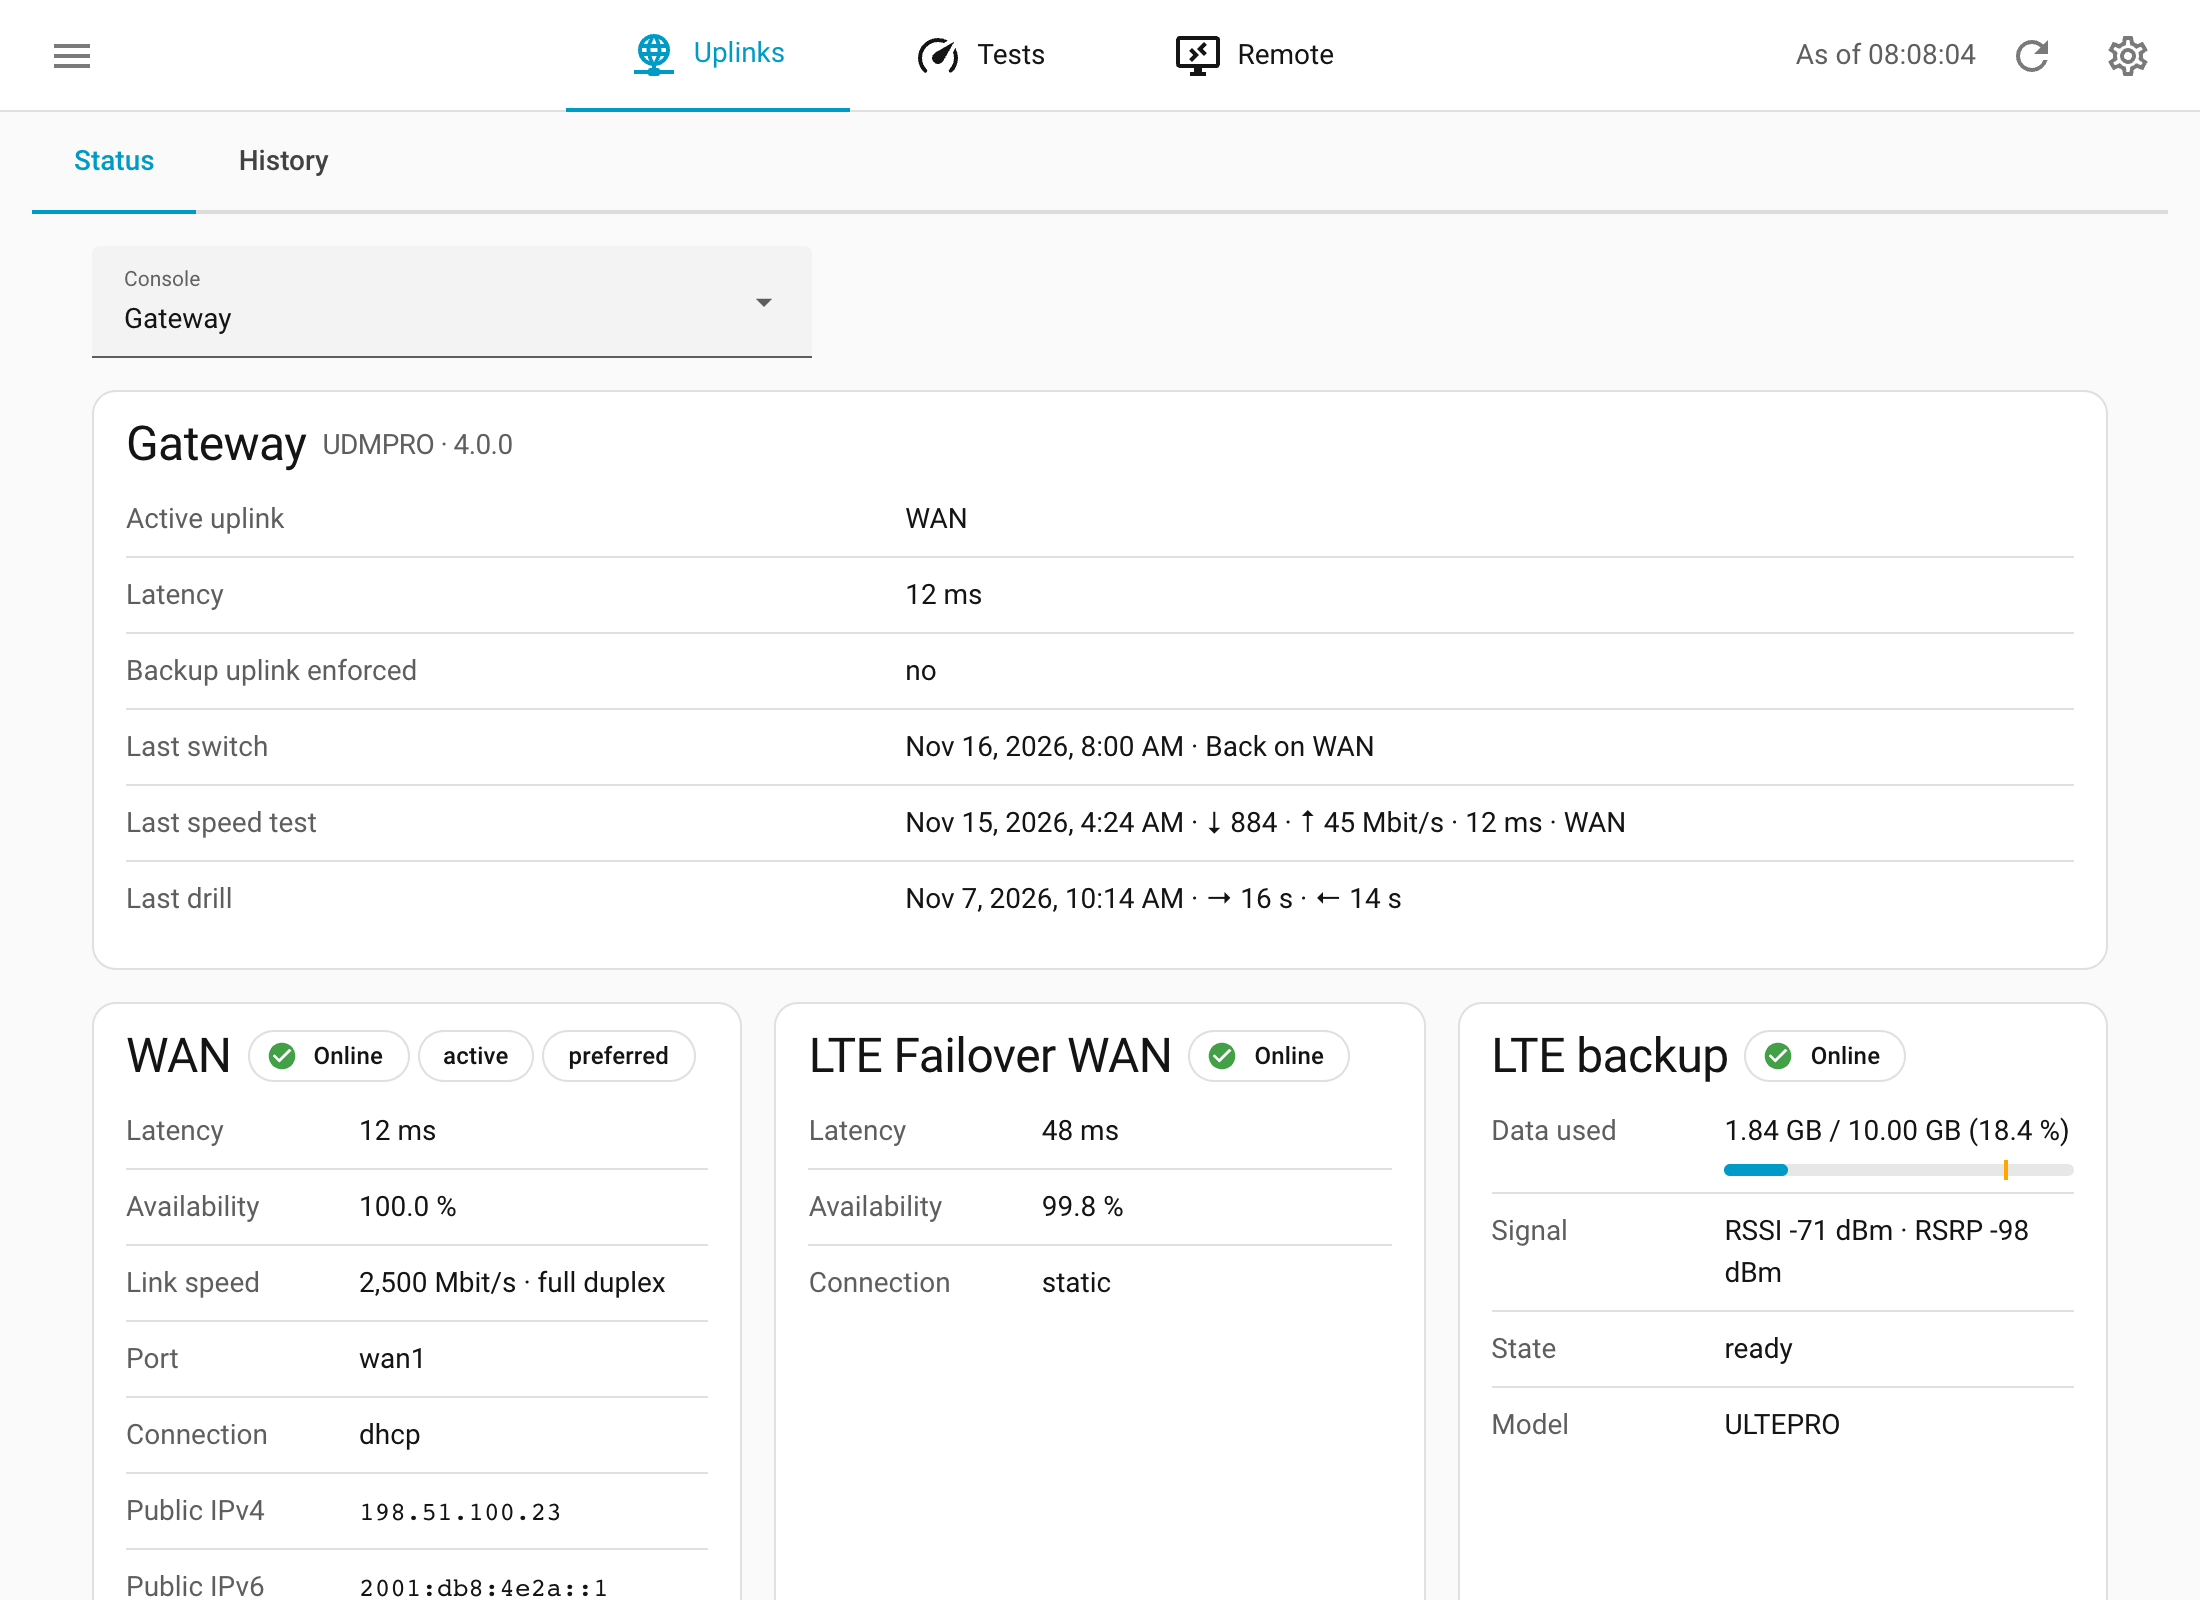
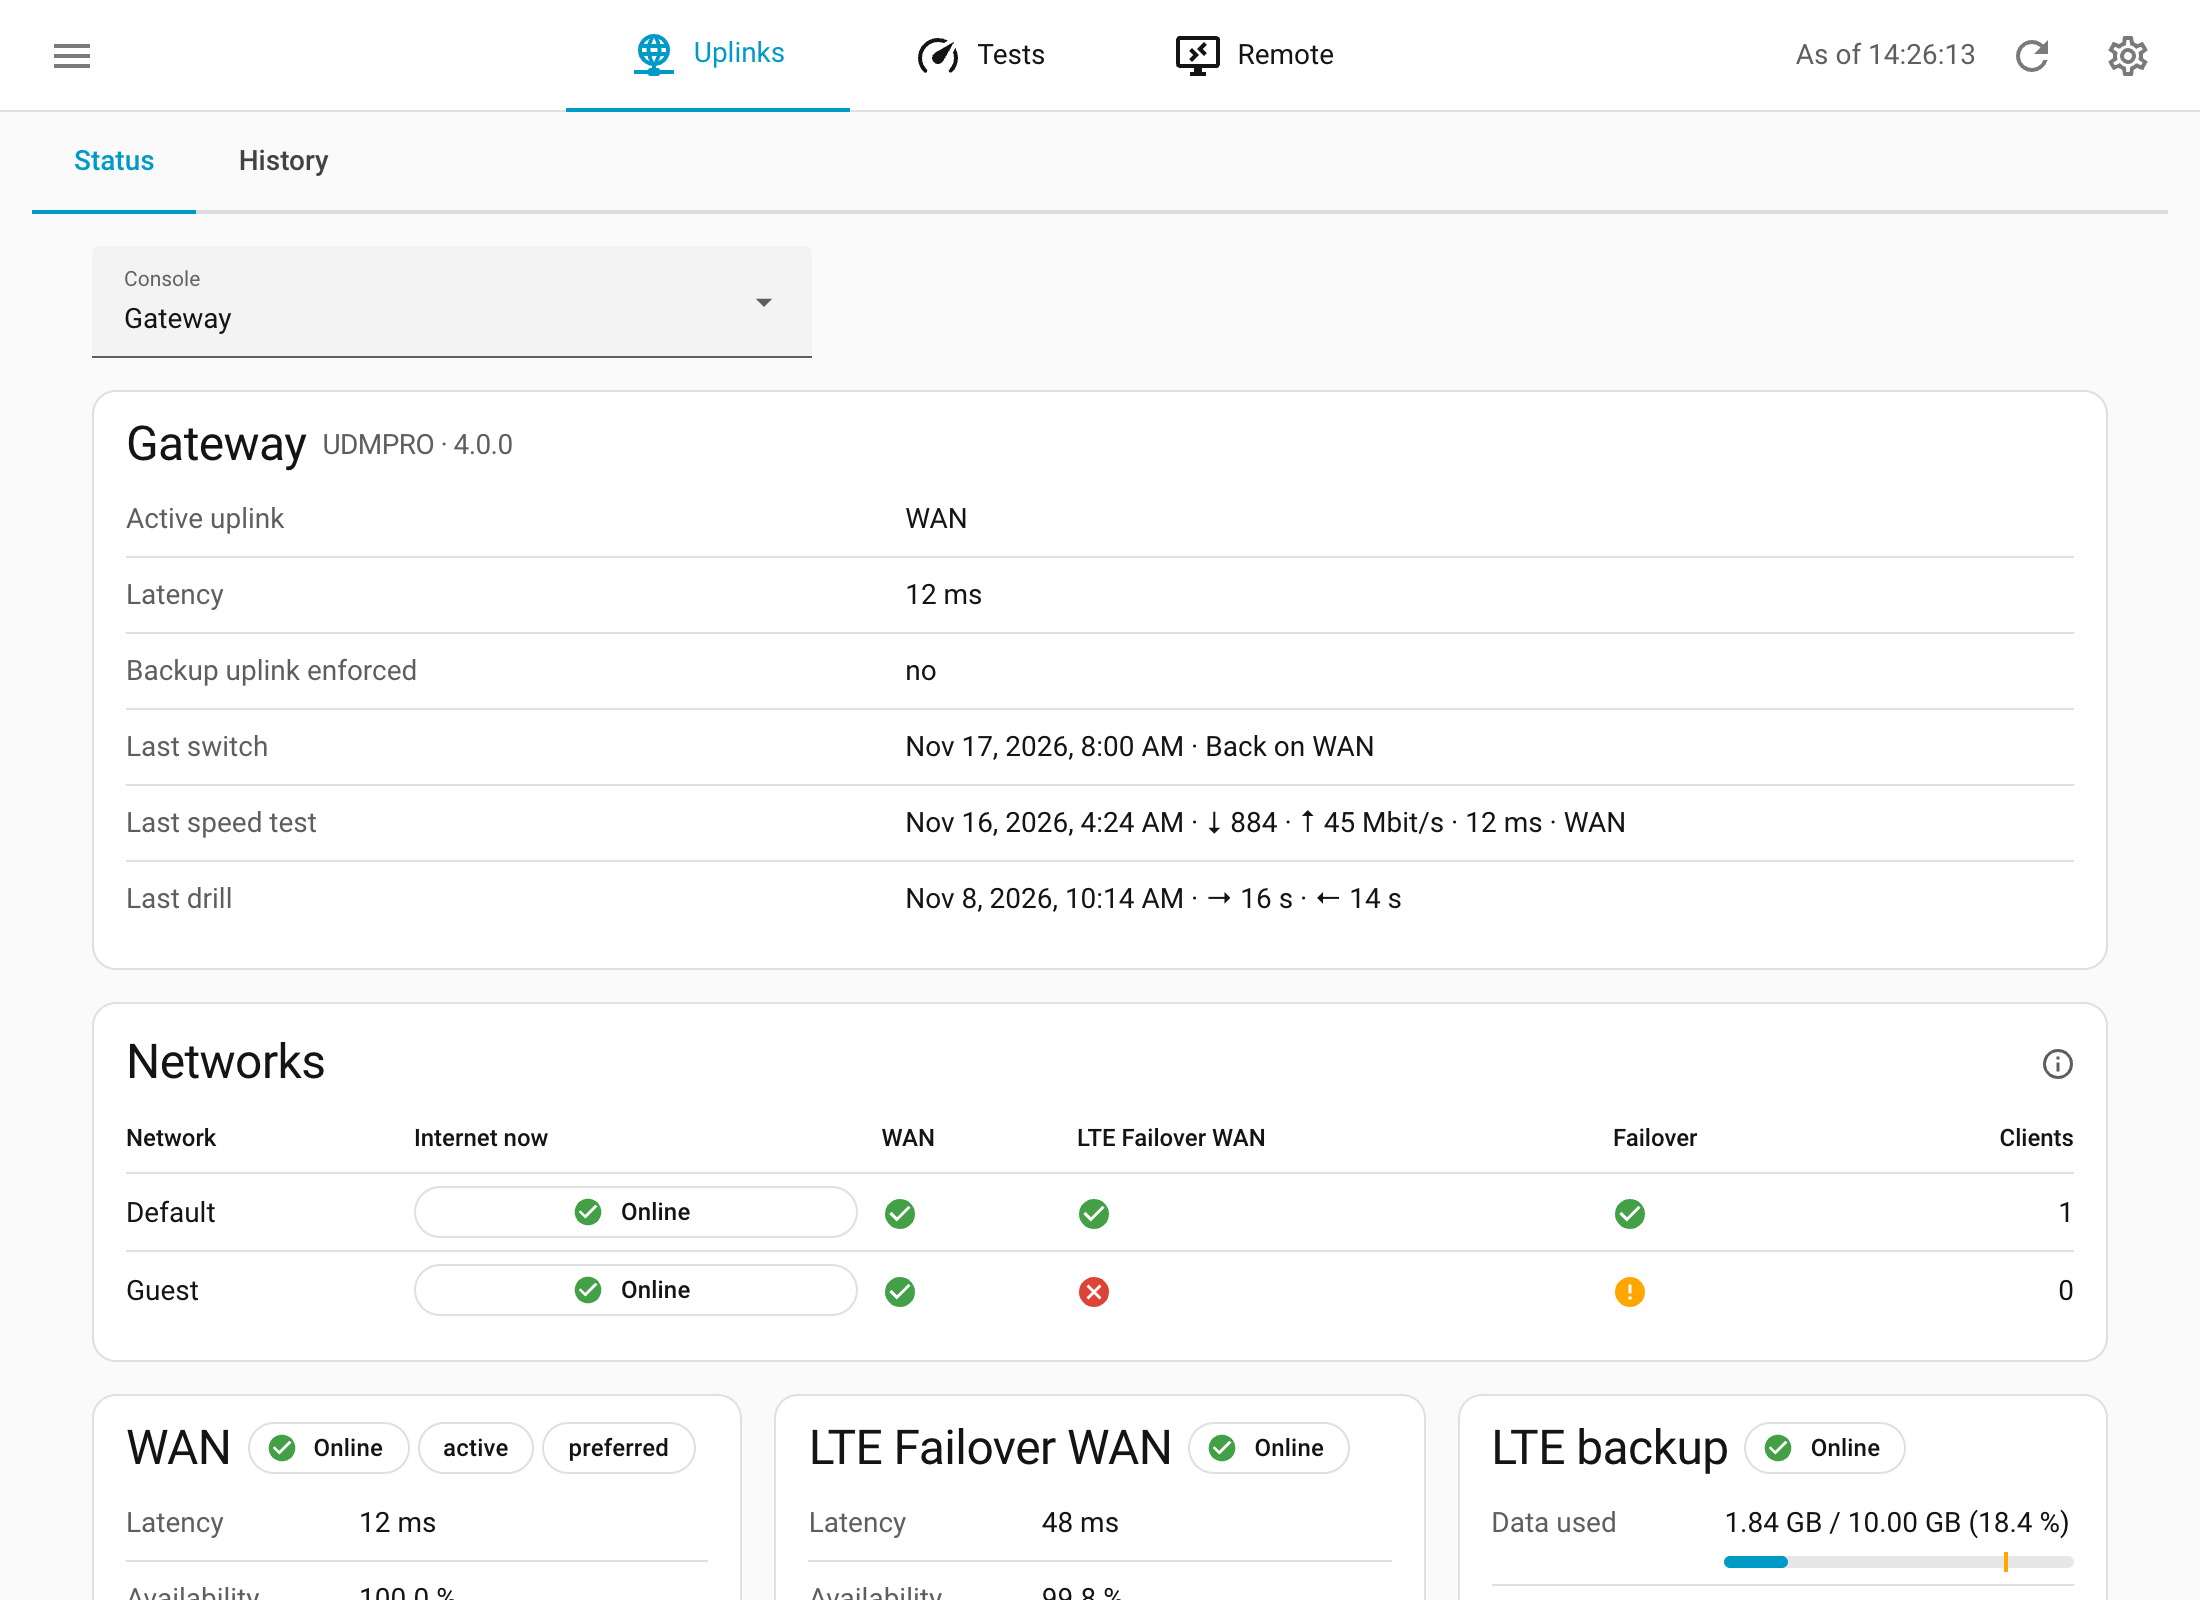
0.13.1: networks get a Failover column instead of the badge

diff --git a/custom_components/network_plus/frontend/network-plus-panel.js b/custom_components/network_plus/frontend/network-plus-panel.js
@@ -38,6 +38,8 @@ if (!customElements.get("network-plus-panel")) {
     err: "M12,2C17.53,2 22,6.47 22,12C22,17.53 17.53,22 12,22C6.47,22 2,17.53 2,12C2,6.47 6.47,2 12,2M15.59,7L12,10.59L8.41,7L7,8.41L10.59,12L7,15.59L8.41,17L12,13.41L15.59,17L17,15.59L13.41,12L17,8.41L15.59,7Z",
     unknown: "M15.07,11.25L14.17,12.17C13.45,12.89 13,13.5 13,15H11V14.5C11,13.39 11.45,12.39 12.17,11.67L13.41,10.41C13.78,10.05 14,9.55 14,9C14,7.89 13.1,7 12,7A2,2 0 0,0 10,9H8A4,4 0 0,1 12,5A4,4 0 0,1 16,9C16,9.88 15.64,10.67 15.07,11.25M13,19H11V17H13M12,2A10,10 0 0,0 2,12A10,10 0 0,0 12,22A10,10 0 0,0 22,12C22,6.47 17.5,2 12,2Z",
     warn: "M21,9L17,5V8H10V10H17V13M7,11L3,15L7,19V16H14V14H7V11Z",
+    // mdi:alert-circle, a network that only one uplink carries
+    alert: "M13,13H11V7H13M13,17H11V15H13M12,2A10,10 0 0,0 2,12A10,10 0 0,0 12,22A10,10 0 0,0 22,12A10,10 0 0,0 12,2Z",
     ip: "M15,9H13V7H15V9M22,20V22H15A1,1 0 0,1 14,23H10A1,1 0 0,1 9,22H2V20H9A1,1 0 0,1 10,19H11V17H7A2,2 0 0,1 5,15V5A2,2 0 0,1 7,3H17A2,2 0 0,1 19,5V15A2,2 0 0,1 17,17H13V19H14A1,1 0 0,1 15,20H22M9,5H7V15H9V5M11,15H13V11H15A2,2 0 0,0 17,9V7A2,2 0 0,0 15,5H11V15Z",
   };
 
@@ -86,8 +88,8 @@ if (!customElements.get("network-plus-panel")) {
       name: "Name", kind: "Kind", from: "From", until: "Until", duration: "Duration",
       noSessions: "No finished session in the kept period.",
       networks: "Networks", network: "Network", internet: "Internet now", clients: "Clients",
-      carries: "carries it", notCarries: "does not carry it", noBackup: "no backup",
-      networksHelp: "Whether each local network reaches the internet, now and over each uplink. A wired uplink carries every network; a cellular backup only the networks assigned to it in UniFi Network. A traffic route with kill switch binds a network to its target uplink. “No backup”: only one uplink carries the network, whatever is online now. Clients: connected now.",
+      carries: "carries it", notCarries: "does not carry it", noBackup: "no backup", withBackup: "with backup", redundancy: "Failover",
+      networksHelp: "Whether each local network reaches the internet, now and over each uplink. A wired uplink carries every network; a cellular backup only the networks assigned to it in UniFi Network. A traffic route with kill switch binds a network to its target uplink. Failover: whether a second uplink carries the network, whatever is online now; an exclamation mark if only one does. Clients: connected now.",
     },
     de: {
       title: "Network Plus", tabUplinks: "Leitungen", tabTests: "Tests", tabRemote: "Fernzugriff", subStatus: "Status",
@@ -122,8 +124,8 @@ if (!customElements.get("network-plus-panel")) {
       name: "Name", kind: "Art", from: "Von", until: "Bis", duration: "Dauer",
       noSessions: "Keine beendete Sitzung im aufbewahrten Zeitraum.",
       networks: "Netze", network: "Netz", internet: "Internet jetzt", clients: "Clients",
-      carries: "versorgt es", notCarries: "versorgt es nicht", noBackup: "ohne Reserve",
-      networksHelp: "Ob jedes lokale Netz ins Internet kommt, jetzt und über jede Leitung. Eine Kabel-Leitung versorgt alle Netze, eine Mobilfunk-Reserve nur die Netze, die ihr in UniFi Network zugewiesen sind. Eine Traffic Route mit Kill Switch bindet ein Netz an ihre Ziel-Leitung. „Ohne Reserve“: nur eine Leitung versorgt das Netz, egal was gerade online ist. Clients: gerade verbunden.",
+      carries: "versorgt es", notCarries: "versorgt es nicht", noBackup: "ohne Reserve", withBackup: "mit Reserve", redundancy: "Ausfallsicherheit",
+      networksHelp: "Ob jedes lokale Netz ins Internet kommt, jetzt und über jede Leitung. Eine Kabel-Leitung versorgt alle Netze, eine Mobilfunk-Reserve nur die Netze, die ihr in UniFi Network zugewiesen sind. Eine Traffic Route mit Kill Switch bindet ein Netz an ihre Ziel-Leitung. Ausfallsicherheit: ob eine zweite Leitung das Netz versorgt, egal was gerade online ist; ein Ausrufezeichen, wenn nur eine es tut. Clients: gerade verbunden.",
     },
   };
 
@@ -600,14 +602,22 @@ if (!customElements.get("network-plus-panel")) {
         return `<ha-svg-icon class="kind" style="color:${STATE_COLOR[kind]}" path="${MDI[kind]}" role="img" aria-label="${esc(word)}" title="${esc(word)}"></ha-svg-icon>`;
       };
       const head = `<tr><th>${esc(this._t("network"))}</th><th>${esc(this._t("internet"))}</th>` +
-        c.uplinks.map((u) => `<th>${esc(u.name)}</th>`).join("") + `<th class="n">${esc(this._t("clients"))}</th></tr>`;
-      // Only one uplink carries the network, by the configuration; unknown marks leave it open
-      const single = (n) => {
+        c.uplinks.map((u) => `<th>${esc(u.name)}</th>`).join("") +
+        `<th>${esc(this._t("redundancy"))}</th><th class="n">${esc(this._t("clients"))}</th></tr>`;
+      // By the configuration: a second uplink carries the network (check), only one
+      // (exclamation mark, a warning rather than an error), none (no internet access: –);
+      // an unknown mark leaves it open
+      const redundancy = (n) => {
         const marks = c.uplinks.map((u) => n.uplinks[u.key]);
-        return c.uplinks.length > 1 && !marks.includes(null) && marks.filter((v) => v === true).length === 1;
+        if (marks.includes(null) || marks.includes(undefined)) return mark(null);
+        const carrying = marks.filter((v) => v === true).length;
+        if (!carrying) return "–";
+        const [kind, icon, word] = carrying > 1 ? ["ok", "ok", this._t("withBackup")] : ["warn", "alert", this._t("noBackup")];
+        return `<ha-svg-icon class="kind" style="color:${STATE_COLOR[kind]}" path="${MDI[icon]}" role="img" aria-label="${esc(word)}" title="${esc(word)}"></ha-svg-icon>`;
       };
-      const rows = c.networks.map((n) => `<tr><td>${esc(n.name)}${single(n) ? ` ${this._badge(this._t("noBackup"), "warn")}` : ""}</td><td>${this._online(n.internet)}</td>` +
+      const rows = c.networks.map((n) => `<tr><td>${esc(n.name)}</td><td>${this._online(n.internet)}</td>` +
         c.uplinks.map((u) => `<td>${mark(n.uplinks[u.key], `${u.name}: ${this._t("carries")}`, `${u.name}: ${this._t("notCarries")}`)}</td>`).join("") +
+        `<td>${redundancy(n)}</td>` +
         `<td class="n">${Number.isFinite(n.clients) ? this._num(n.clients) : "–"}</td></tr>`).join("");
       return this._card(esc(this._t("networks")), `<div class="scroll"><table class="data">${head}${rows}</table></div>`, this._t("networksHelp"));
     }

diff --git a/scripts/panel/check_panel.py b/scripts/panel/check_panel.py
@@ -772,11 +772,6 @@ async def check_page(browser: Browser, instance: Instance, api: Api, shots: Path
         expect(bool(bar) and "% of the data plan used" in (bar or ""), f"LTE bar label {bar!r}")
         # The networks: whether each reaches the internet, per uplink in words
         expect("Networks" in text and "Guest" in text, "the networks card missing")
-        rows = await page.locator(f"{PANEL} table.data tr").all_inner_texts()
-        flagged = [
-            r.split("\t")[0].replace("no backup", "").strip() for r in rows if "no backup" in r
-        ]
-        expect(flagged == ["Guest"], f"networks without backup {flagged}")
         marks = await page.locator(f"{PANEL} table.data ha-svg-icon").evaluate_all(
             "els => els.map((e) => e.getAttribute('aria-label'))"
         )
@@ -784,6 +779,14 @@ async def check_page(browser: Browser, instance: Instance, api: Api, shots: Path
             "LTE Failover WAN: does not carry it" in marks and "WAN: carries it" in marks,
             f"network marks {marks}",
         )
+        # Failover: an exclamation mark for the network only one uplink carries, a check otherwise
+        expect("Failover" in text, "the failover column missing")
+        flagged = await page.locator(f"{PANEL} table.data tr").evaluate_all(
+            """rows => rows.filter((r) => r.querySelector('[aria-label="no backup"]'))
+                .map((r) => r.cells[0].innerText.trim())"""
+        )
+        expect(flagged == ["Guest"], f"networks without backup {flagged}")
+        expect("with backup" in marks, f"a network with backup unmarked {marks}")
         about = (await page.locator(f"{PANEL} #about").inner_text()).strip()
         expect(about == f"Network Plus {VERSION}", f"version line: {about!r}")
         if shots is not None:

diff --git a/README.md b/README.md
@@ -90,7 +90,7 @@ UniFi Network assigns local networks to a cellular backup one by one (LTE, 5G: t
 - A network with internet access turned off is always off; with every uplink down every network is off.
 - The sensor is unknown while that cannot be told: the active uplink is unknown, the console does not say whether a network may use the backup, or the traffic routes could not be read yet.
 
-The attribute `uplinks` lists the uplinks that would carry the network. The networks and the traffic routes are read with every poll; a failed read keeps the last configuration, a console without traffic routes has none. The page shows every network against every uplink, with the clients connected in it now; a network that only one uplink carries, whatever is online now, has the badge "no backup". There is no entity for that, as it changes only with the configuration: `{{ state_attr('binary_sensor.gateway_guest_internet', 'uplinks') | length < 2 }}` tells the same, while the sensor is not unknown.
+The attribute `uplinks` lists the uplinks that would carry the network. The networks and the traffic routes are read with every poll; a failed read keeps the last configuration, a console without traffic routes has none. The page shows every network against every uplink, with the clients connected in it now; the column "Failover" has a check when a second uplink carries the network and an orange exclamation mark ("no backup") when only one does, whatever is online now. There is no entity for that, as it changes only with the configuration: `{{ state_attr('binary_sensor.gateway_guest_internet', 'uplinks') | length < 2 }}` tells the same, while the sensor is not unknown.
 
 ### Speed test
 
@@ -120,7 +120,7 @@ If the console has an LTE backup device, it gets a device of its own below the g
 
 **Network Plus** in the sidebar, for administrators. It shows one console at a time (a choice above the cards when there are several; the chosen one is in the address, `?console=…`) and reads it again every 30 seconds while it is open. The page is Home Assistant's own frame with three areas as tabs, each with two pages below the header; at the end of the header the time the page last got its data ("As of 14:02:37", hidden on a phone), **Refresh** (reads the data again at once) and **Integration in Home Assistant** (Home Assistant's page of the integration):
 
-- **Uplinks › Status** (`/network-plus/uplinks/status`): the active uplink, latency, last switch, last speed test and last drill; every local network, whether it reaches the internet now and over which uplinks, with its clients; per uplink its state, the gateway's latency and availability, the negotiated link speed against the expected one, port, connection type and public addresses; the LTE backup with data used against the plan and the signal.
+- **Uplinks › Status** (`/network-plus/uplinks/status`): the active uplink, latency, last switch, last speed test and last drill; every local network, whether it reaches the internet now, over which uplinks, whether a second uplink carries it, and its clients; per uplink its state, the gateway's latency and availability, the negotiated link speed against the expected one, port, connection type and public addresses; the LTE backup with data used against the plan and the signal.
 - **Uplinks › History** (`/uplinks/history`): failovers and returns with how long the backup carried the traffic, brief failovers, uplinks going down and up with how long they were gone, new public addresses (the uplink and the family, not the address).
 - **Tests › Speed tests** (`/tests/speedtests`): download over time per uplink, and every result with upload and ping.
 - **Tests › Drills** (`/tests/drills`): every backup drill with failover time, return time and LTE data, and the averages.

diff --git a/CHANGELOG.md b/CHANGELOG.md
@@ -4,6 +4,12 @@ All notable changes are listed here. The format follows [Keep a Changelog](https
 
 ## [Unreleased]
 
+## [0.13.1] - 2026-11-18
+
+### Changed
+
+- The networks on Uplinks › Status have a column "Failover" instead of the badge "no backup" beside the name: a check when a second uplink carries the network, an orange exclamation mark when only one does, whatever is online now; "–" for a network without internet access.
+
 ## [0.13.0] - 2026-11-18
 
 ### Added
